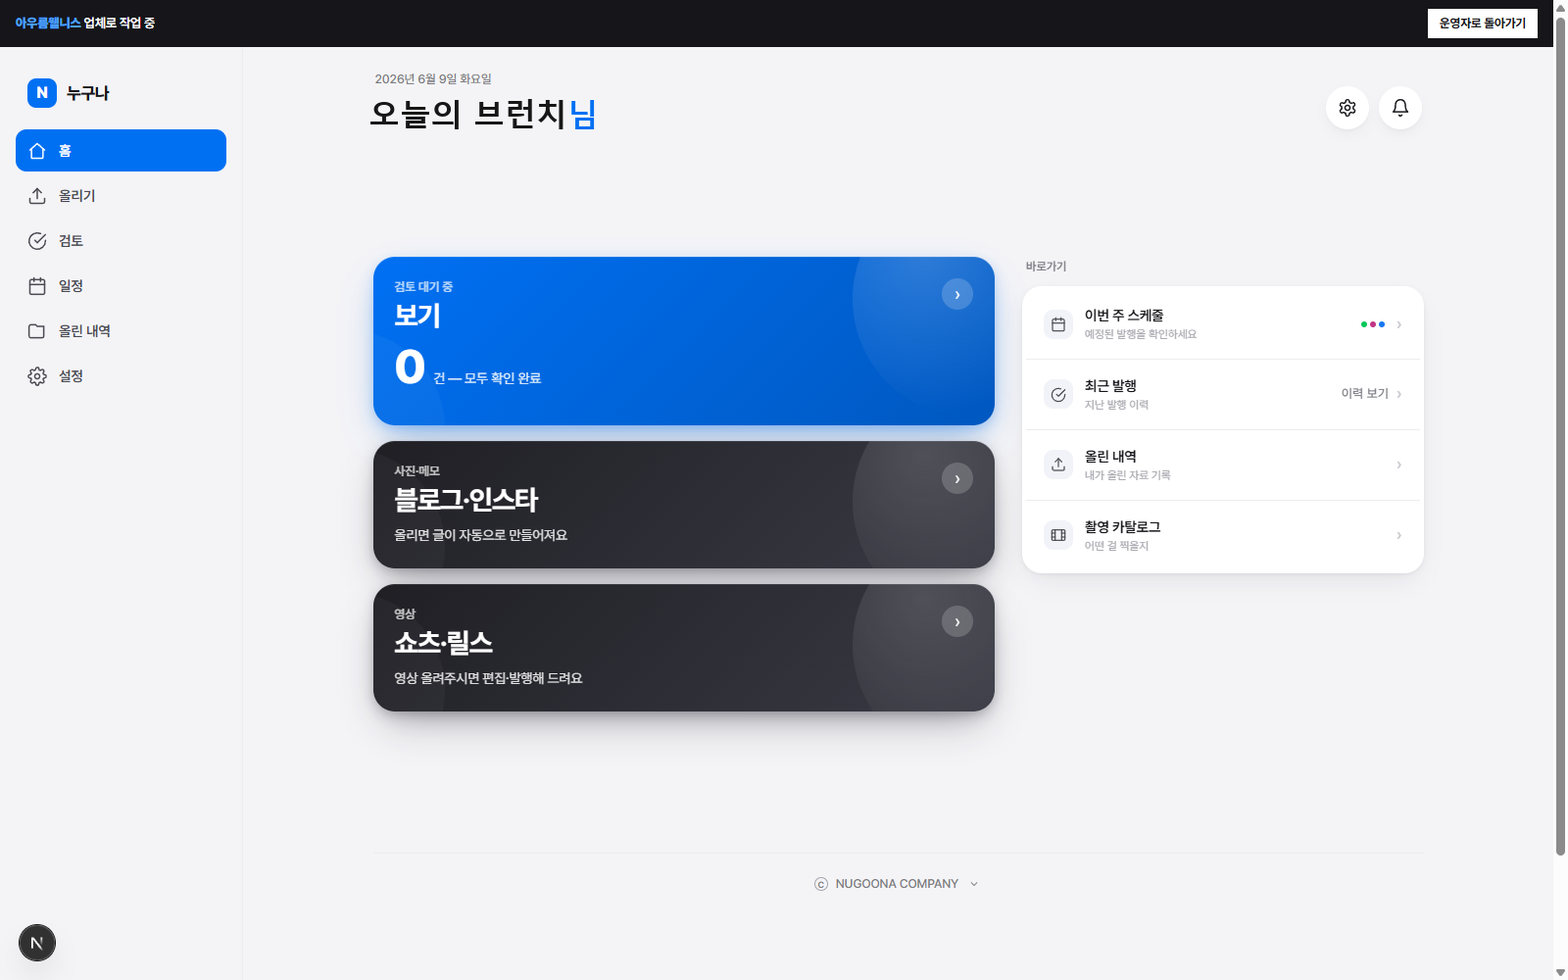
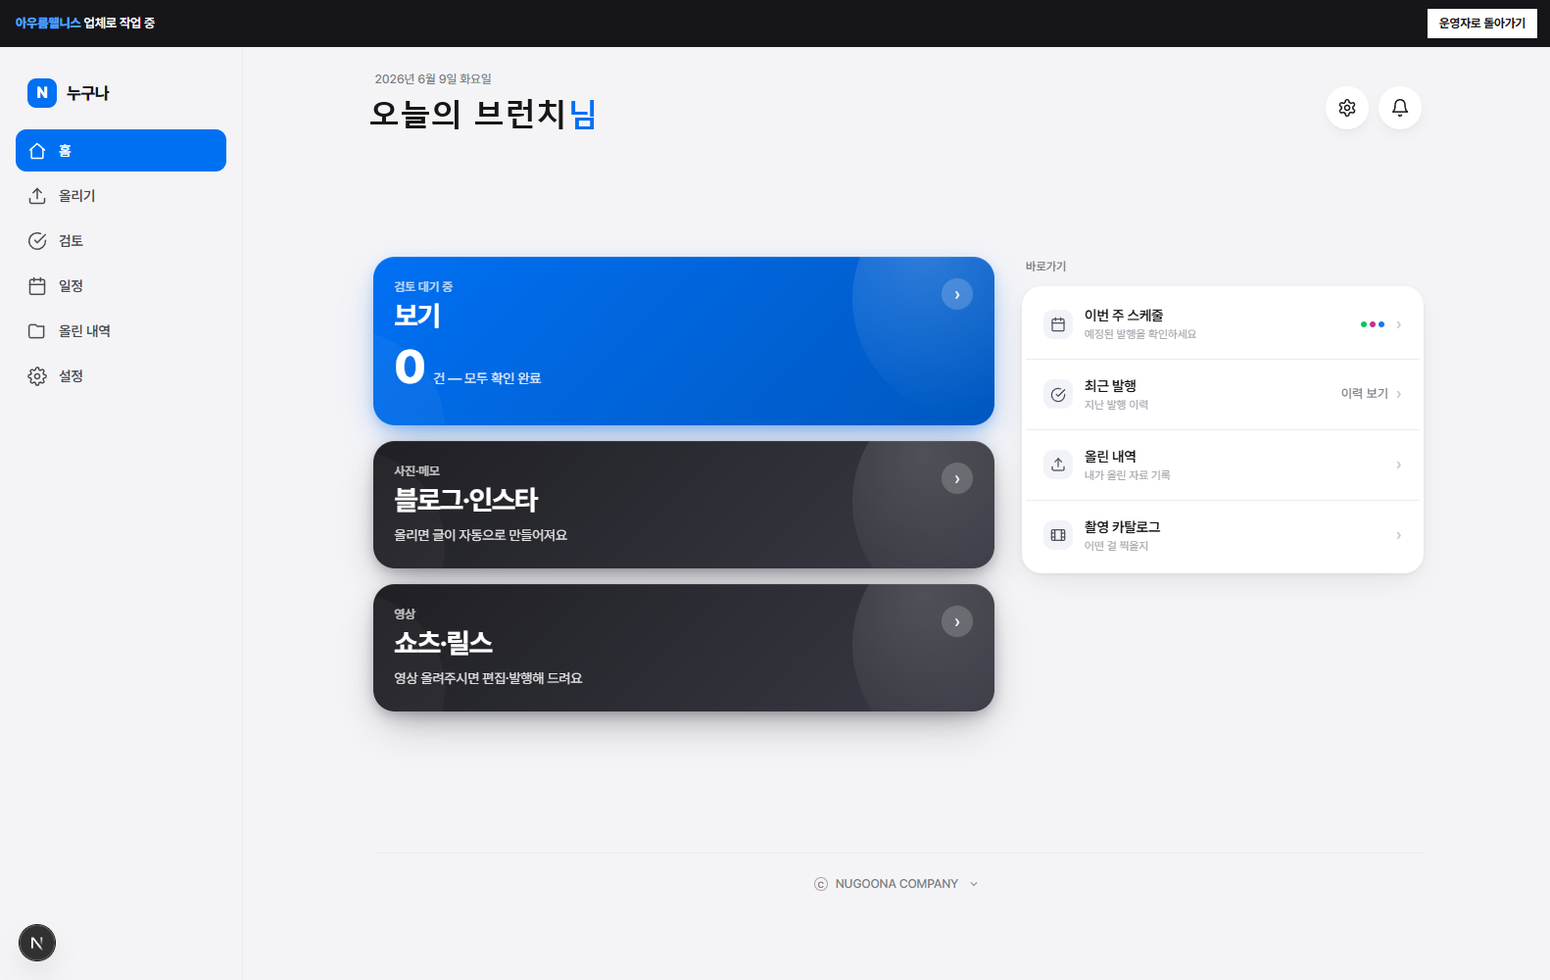
design(homepage): 감독관 2차 잔여 수리 — 사진 전수 실사 확인 기반 재배치(음식→content 격리·상품명 역맞춤·페이지 중복 0)·이모지 소거·제품샷 스크롤바 크롭

diff --git a/nugoona/components/features/TrendShowcase.tsx b/nugoona/components/features/TrendShowcase.tsx
@@ -17,19 +17,19 @@ const U = (id: string) => `/img/unsplash/webp/${id}.webp`;
 
 const IMG = {
   knitPoncho:         U('photo-1434389677669-e08b4cac3105'), // 크림 프린지 크로셰 니트
-  knitRibGrey:         U('photo-1556905055-8f358a7a47b2'),    // 그레이 리브 니트(플랫레이)
+  knitRibGrey:         U('photo-1556905055-8f358a7a47b2'),    // 감독관2차 M1 재확인: 실제는 러스트 니트 비니 + 그레이 리브 니트 + 데님(플랫레이) — 상품명 "니트 비니_Rust"로 역맞춤
   knitSweatshirt:      U('photo-1578587018452-892bacefd3f2'), // 오렌지 크루넥 스웨트
-  knitCableCream:      U('photo-1604176354204-9268737828e4'), // 아이보리 케이블 니트
-  knitSage:            U('photo-1516762689617-e1cffcef479d'), // 세이지 그린 라운드 니트
-  knitCardiganDenim:   U('photo-1515886657613-9f3515b0c78f'), // 아이보리 가디건 + 데님(플랫레이)
+  knitCableCream:      U('photo-1604176354204-9268737828e4'), // 감독관2차 M1 재확인: 실제는 데님 4벌 스택 + 크림 니트 소매(일부) — 니트 단독이 아니므로 상품명은 _Navy로 역맞춤
+  knitSage:            U('photo-1516762689617-e1cffcef479d'), // 감독관2차 M1 재확인: 실제는 크림 가디건 + 데님 + 머그컵(플랫레이), 그린 없음 — 상품명 _Cream으로 역맞춤
+  knitCardiganDenim:   U('photo-1515886657613-9f3515b0c78f'), // 감독관2차 M1: 실제는 옐로 크롭 후드+트랙팬츠 셋업(농구코트) — 상품명 "옐로 트랙 셋업"으로 역맞춤
   coatPlaid:           U('photo-1485968579580-b6d095142e6e'), // 네이비 체크 코트
   coatCamel:           U('photo-1539533018447-63fcce2678e3'), // 카멜 울 랩 코트
   coatPowderBlue:      U('photo-1539109136881-3be0616acf4b'), // 파우더블루 롱 코트
   jacketLeatherBrown:  U('photo-1487222477894-8943e31ef7b2'), // 브라운 레더 라이더 재킷
   jacketBomberRust:    U('photo-1591047139829-d91aecb6caea'), // 러스트 봄버 재킷
   denimRipped:         U('photo-1541099649105-f69ad21f3246'), // 디스트로이드 스키니 데님
-  denimFlatlay:        U('photo-1525351484163-7529414344d8'), // 데님 플랫레이(스트레이트)
-  pantsStripeWide:     U('photo-1529139574466-a303027c1d8b'), // 그린 스트라이프 와이드 팬츠
+  denimFlatlay:        U('photo-1541099649105-f69ad21f3246'), // 감독관2차 C1: 계란토스트 오식별 교체 → 디스트로이드 스키니 데님(denimRipped와 동일 실사, 공용)
+  pantsStripeWide:     U('photo-1509631179647-0177331693ae'), // 감독관2차 M1: 무관 인물사진(CCCP 티셔츠) 오식별 교체 → 블랙 스트라이프 와이드 팬츠(네온사인 배경)
   blouseFloral:        U('photo-1564257631407-4deb1f99d992'), // 화이트 플로럴 아일렛 블라우스
   blouseChambray:      U('photo-1558171813-4c088753af8f'),    // 라이트블루 샴브레이 셔츠
   skirtPleatBlack:      U('photo-1583496661160-fb5886a0aaaa'),// 블랙 플리츠 스커트(+스트라이프 블라우스)
@@ -69,7 +69,7 @@ const RISING_ALL: BriefingItem[] = [
   { rank: '전체 25위', img: IMG.blouseFloral,        brand: '데이브리즈', name: '플로럴 레이스 블라우스_White',          change: 41, thisWeek: 25, lastWeek: 66 },
 ];
 const NEW_ALL: BriefingItem[] = [
-  { rank: '전체 8위',  img: IMG.knitRibGrey,      brand: '코지랩',     name: '리브 크루넥 니트_Grey',           change: 0, thisWeek: 8,  lastWeek: null },
+  { rank: '전체 8위',  img: IMG.knitRibGrey,      brand: '코지랩',     name: '니트 비니 세트_Rust',             change: 0, thisWeek: 8,  lastWeek: null },
   { rank: '전체 15위', img: IMG.denimRipped,      brand: '미뉴에뜨',   name: '디스트로이드 스키니 데님_Blue',    change: 0, thisWeek: 15, lastWeek: null },
   { rank: '전체 23위', img: IMG.dressFloralWhite, brand: '하루클로젯', name: '플로럴 랩 원피스_White',           change: 0, thisWeek: 23, lastWeek: null },
   { rank: '전체 29위', img: IMG.skirtPleatBlack,  brand: '포레스트블룸', name: '플리츠 미디 스커트_Black',       change: 0, thisWeek: 29, lastWeek: null },
@@ -77,20 +77,20 @@ const NEW_ALL: BriefingItem[] = [
 const DROP_ALL: BriefingItem[] = [
   { rank: '전체 88위', img: IMG.coatCamel,       brand: '에르블랑',   name: '오버핏 울 랩 코트_Camel',        change: -25, thisWeek: 88, lastWeek: 63 },
   { rank: '전체 71위', img: IMG.coatPlaid,       brand: '블루밍샵',   name: '체크 울 코트_Navy',              change: -18, thisWeek: 71, lastWeek: 53 },
-  { rank: '전체 45위', img: IMG.knitCableCream,  brand: '르비앙',     name: '케이블 니트 가디건_Ivory',        change: -12, thisWeek: 45, lastWeek: 33 },
-  { rank: '전체 62위', img: IMG.pantsStripeWide, brand: '소울리브',   name: '스트라이프 와이드 팬츠_Green',    change: -9,  thisWeek: 62, lastWeek: 53 },
+  { rank: '전체 45위', img: IMG.knitCableCream,  brand: '르비앙',     name: '케이블 니트 가디건_Navy',         change: -12, thisWeek: 45, lastWeek: 33 },
+  { rank: '전체 62위', img: IMG.pantsStripeWide, brand: '소울리브',   name: '스트라이프 와이드 팬츠_Black',    change: -9,  thisWeek: 62, lastWeek: 53 },
 ];
 const RISING_KNIT: BriefingItem[] = [
   { rank: '니트웨어 36위', img: IMG.knitSweatshirt,    brand: '에르블랑', name: '브이넥 크루 니트_Orange',            change: 53, thisWeek: 36, lastWeek: 89 },
-  { rank: '니트웨어 23위', img: IMG.knitSage,          brand: '라빈느',   name: '라운드 니트_Sage Green',             change: 52, thisWeek: 23, lastWeek: 75 },
-  { rank: '니트웨어 11위', img: IMG.knitCardiganDenim, brand: '소울리브', name: '워셔블 라운드 니트 가디건_Ivory',     change: 37, thisWeek: 11, lastWeek: 48 },
+  { rank: '니트웨어 23위', img: IMG.knitSage,          brand: '라빈느',   name: '라운드 니트_Cream',                  change: 52, thisWeek: 23, lastWeek: 75 },
+  { rank: '니트웨어 11위', img: IMG.knitCardiganDenim, brand: '소울리브', name: '옐로 트랙 셋업',                     change: 37, thisWeek: 11, lastWeek: 48 },
   { rank: '니트웨어 21위', img: IMG.knitPoncho,        brand: '코지랩',   name: '캐시미어 프린지 니트_Ivory',          change: 32, thisWeek: 21, lastWeek: 53 },
 ];
 const NEW_PANTS: BriefingItem[] = [
   { rank: '바지 2위', img: IMG.denimRipped,       brand: '미뉴에뜨',   name: 'Distressed Skinny Denim Pants_Blue', change: 0, thisWeek: 2, lastWeek: null },
   { rank: '바지 3위', img: IMG.denimFlatlay,      brand: '에르블랑',   name: 'Straight Denim Pants_Blue',          change: 0, thisWeek: 3, lastWeek: null },
-  { rank: '바지 4위', img: IMG.pantsStripeWide,   brand: '하루클로젯', name: 'Stripe Wide Pants_Green',            change: 0, thisWeek: 4, lastWeek: null },
-  { rank: '바지 6위', img: IMG.knitCardiganDenim, brand: '라빈느',     name: 'Wide Denim Pants_Light Blue',        change: 0, thisWeek: 6, lastWeek: null },
+  { rank: '바지 4위', img: IMG.pantsStripeWide,   brand: '하루클로젯', name: 'Stripe Wide Pants_Black',            change: 0, thisWeek: 4, lastWeek: null },
+  { rank: '바지 6위', img: IMG.knitCardiganDenim, brand: '라빈느',     name: 'Yellow Track Set',                   change: 0, thisWeek: 6, lastWeek: null },
 ];
 
 const BRIEFING_CATS = ['전체', '니트웨어', '단독', '바지', '상의', '셋업', '스커트', '아우터', '원피스'];
@@ -281,25 +281,25 @@ type InsightProduct = {
 const INSIGHT_PRODUCTS: Record<string, InsightProduct[]> = {
   '급상승': [
     { img: IMG.knitSweatshirt,    brand: '에르블랑',   name: '올데이 브이넥 니트_Orange',       rank: 36, change: 53, price: '69,500' },
-    { img: IMG.knitCardiganDenim, brand: '라빈느',     name: '워셔블 라운드 가디건_Ivory',      rank: 23, change: 52, price: '53,870' },
-    { img: IMG.knitSage,          brand: '소울리브',   name: '워셔블 라운드 니트_Sage Green',   rank: 11, change: 37, price: '46,980' },
+    { img: IMG.knitCardiganDenim, brand: '라빈느',     name: '옐로 트랙 셋업',                  rank: 23, change: 52, price: '53,870' },
+    { img: IMG.knitSage,          brand: '소울리브',   name: '워셔블 라운드 니트_Cream',        rank: 11, change: 37, price: '46,980' },
     { img: IMG.knitPoncho,        brand: '코지랩',     name: '캐시미어 프린지 니트_Ivory',      rank: 21, change: 32, price: '49,920' },
-    { img: IMG.knitRibGrey,       brand: '미뉴에뜨',   name: '리브 포인티드 니트_Grey',         rank: 38, change: 31, price: '66,000' },
-    { img: IMG.knitCableCream,    brand: '데이브리즈', name: '케이블 가디건_Ivory',             rank: 72, change: 27, price: '33,000' },
+    { img: IMG.knitRibGrey,       brand: '미뉴에뜨',   name: '니트 비니_Rust',                  rank: 38, change: 31, price: '66,000' },
+    { img: IMG.knitCableCream,    brand: '데이브리즈', name: '케이블 가디건_Navy',              rank: 72, change: 27, price: '33,000' },
   ],
   '신규 진입': [
     { img: IMG.denimRipped,      brand: '에르블랑',   name: '디스트로이드 스키니 데님_Deep Blue', rank: 3,  change: 0, price: '55,000' },
     { img: IMG.dressFloralWhite, brand: '하루클로젯', name: '플로럴 랩 미니 원피스_White',        rank: 8,  change: 0, price: '42,000' },
-    { img: IMG.pantsStripeWide,  brand: '미뉴에뜨',   name: '스트라이프 와이드 팬츠_Green',       rank: 6,  change: 0, price: '58,900' },
+    { img: IMG.pantsStripeWide,  brand: '미뉴에뜨',   name: '스트라이프 와이드 팬츠_Black',       rank: 6,  change: 0, price: '58,900' },
     { img: IMG.skirtPleatBlack,  brand: '소울리브',   name: '플리츠 미디 스커트_Black',           rank: 12, change: 0, price: '49,500' },
-    { img: IMG.knitRibGrey,      brand: '라빈느',     name: '리브 크루넥 니트_Grey',              rank: 19, change: 0, price: '62,000' },
+    { img: IMG.knitRibGrey,      brand: '라빈느',     name: '니트 비니_Rust',                     rank: 19, change: 0, price: '62,000' },
     { img: IMG.blouseChambray,   brand: '코지랩',     name: '샴브레이 셔츠 블라우스_Blue',        rank: 15, change: 0, price: '38,500' },
   ],
   '순위 하락': [
     { img: IMG.coatCamel,       brand: '에르블랑',   name: '오버핏 울 랩 코트_Camel',        rank: 88, change: -25, price: '119,000' },
     { img: IMG.coatPlaid,       brand: '블루밍샵',   name: '체크 울 코트_Navy',              rank: 71, change: -18, price: '195,000' },
-    { img: IMG.knitCableCream,  brand: '르비앙',     name: '터틀넥 케이블 니트_Ivory',        rank: 45, change: -12, price: '67,000' },
-    { img: IMG.pantsStripeWide, brand: '소울리브',   name: '스트라이프 와이드 팬츠_Green',    rank: 62, change: -9,  price: '49,500' },
+    { img: IMG.knitCableCream,  brand: '르비앙',     name: '터틀넥 케이블 니트_Navy',         rank: 45, change: -12, price: '67,000' },
+    { img: IMG.pantsStripeWide, brand: '소울리브',   name: '스트라이프 와이드 팬츠_Black',    rank: 62, change: -9,  price: '49,500' },
     { img: IMG.coatPowderBlue,  brand: '하루클로젯', name: 'Classic Wool Coat_Powder Blue',  rank: 55, change: -7,  price: '188,000' },
     { img: IMG.skirtPleatBlack, brand: '미뉴에뜨',   name: '플리츠 미디 스커트_Black',        rank: 78, change: -5,  price: '72,000' },
   ],
@@ -508,7 +508,7 @@ function InsightSection() {
                               </span>
                             </div>
                             <p className="text-[10px] text-text-weak font-semibold mb-0.5">{p.brand}</p>
-                            <p className="text-[11px] text-text-primary font-medium leading-[1.4] mb-1.5 line-clamp-2">{p.name}</p>
+                            <p className="text-[11px] text-text-primary font-medium leading-[1.4] mb-1.5 line-clamp-1">{p.name}</p>
                             <span
                               className="inline-flex items-center gap-0.5 text-[9px] font-bold px-1.5 py-0.5 mb-1.5"
                               style={{
@@ -557,23 +557,23 @@ const COMPARE_PRODUCTS: Record<string, CompareProduct[]> = {
     { img: PT_IMGS[4], brand: '에르블랑', name: '오버사이즈 크루넥 후디_Orange',   likes: '1,283', bestRank: 4 },
     { img: PT_IMGS[6], brand: '에르블랑', name: '스트레이트 데님 팬츠_Blue',        likes: '392',   bestRank: 3 },
     { img: PT_IMGS[8], brand: '에르블랑', name: '울 블렌드 코트_Camel',              likes: '519',   bestRank: undefined },
-    { img: PT_IMGS[1], brand: '에르블랑', name: '와이드 데님 팬츠_워싱 Blue',        likes: '2,341', bestRank: 7 },
-    { img: PT_IMGS[3], brand: '에르블랑', name: '크루넥 니트 풀오버_4color',         likes: '1,087', bestRank: undefined },
-    { img: PT_IMGS[5], brand: '에르블랑', name: '린넨 셔츠 블라우스_Ivory',          likes: '643',   bestRank: undefined },
-    { img: PT_IMGS[7], brand: '에르블랑', name: '플리츠 미디 스커트_3color',         likes: '891',   bestRank: 9 },
-    { img: PT_IMGS[9], brand: '에르블랑', name: '캐시미어 브이넥 니트_5color',       likes: '1,524', bestRank: undefined },
+    { img: PT_IMGS[1], brand: '에르블랑', name: '레더 블루종 재킷_Brown',        likes: '2,341', bestRank: 7 },
+    { img: PT_IMGS[3], brand: '에르블랑', name: '케이블 니트 가디건_Navy',        likes: '1,087', bestRank: undefined },
+    { img: PT_IMGS[5], brand: '에르블랑', name: '디스트로이드 스키니 데님_Blue',  likes: '643',   bestRank: undefined },
+    { img: PT_IMGS[7], brand: '에르블랑', name: '플로럴 레이스 블라우스_White',   likes: '891',   bestRank: 9 },
+    { img: PT_IMGS[9], brand: '에르블랑', name: '옐로 트랙 셋업',                likes: '1,524', bestRank: undefined },
   ],
   '라빈느': [
     { img: PT_IMGS[1], brand: '라빈느', name: '레더 블루종 재킷_Brown',        likes: '3,201', bestRank: 12 },
-    { img: PT_IMGS[3], brand: '라빈느', name: '케이블 니트 가디건_Ivory',       likes: '2,891', bestRank: 23 },
+    { img: PT_IMGS[3], brand: '라빈느', name: '케이블 니트 가디건_Navy',        likes: '2,891', bestRank: 23 },
     { img: PT_IMGS[5], brand: '라빈느', name: 'Distressed Skinny Denim Pants_Blue', likes: '1,047', bestRank: undefined },
     { img: PT_IMGS[7], brand: '라빈느', name: '플로럴 레이스 블라우스_White',   likes: '892',   bestRank: undefined },
-    { img: PT_IMGS[9], brand: '라빈느', name: '와이드 데님 팬츠_Light Blue',    likes: '2,134', bestRank: 31 },
-    { img: PT_IMGS[0], brand: '라빈느', name: '코튼 크루넥 티셔츠_5color',     likes: '1,673', bestRank: undefined },
-    { img: PT_IMGS[2], brand: '라빈느', name: '린넨 와이드 팬츠_Beige',        likes: '743',   bestRank: undefined },
-    { img: PT_IMGS[4], brand: '라빈느', name: '트위드 자켓_Cream',             likes: '1,298', bestRank: 45 },
-    { img: PT_IMGS[6], brand: '라빈느', name: '플레어 미니 스커트_2color',     likes: '581',   bestRank: undefined },
-    { img: PT_IMGS[8], brand: '라빈느', name: '오버사이즈 맨투맨_Grey',        likes: '2,056', bestRank: 38 },
+    { img: PT_IMGS[9], brand: '라빈느', name: '옐로 트랙 셋업',                 likes: '2,134', bestRank: 31 },
+    { img: PT_IMGS[0], brand: '라빈느', name: '롱 트렌치 코트_Powder Blue',    likes: '1,673', bestRank: undefined },
+    { img: PT_IMGS[2], brand: '라빈느', name: '플리츠 미디 스커트_Black',      likes: '743',   bestRank: undefined },
+    { img: PT_IMGS[4], brand: '라빈느', name: '오버사이즈 크루넥 후디_Orange', likes: '1,298', bestRank: 45 },
+    { img: PT_IMGS[6], brand: '라빈느', name: '스트레이트 데님 팬츠_Blue',     likes: '581',   bestRank: undefined },
+    { img: PT_IMGS[8], brand: '라빈느', name: '울 블렌드 코트_Camel',          likes: '2,056', bestRank: 38 },
   ],
   '소울리브': [
     { img: PT_IMGS[2], brand: '소울리브', name: '플리츠 미디 스커트_Black',       likes: '1,842', bestRank: 38 },
@@ -581,11 +581,11 @@ const COMPARE_PRODUCTS: Record<string, CompareProduct[]> = {
     { img: PT_IMGS[6], brand: '소울리브', name: '워싱 스트레이트 데님_Blue',      likes: '2,201', bestRank: 18 },
     { img: PT_IMGS[8], brand: '소울리브', name: '울 랩 코트_Camel',               likes: '673',   bestRank: undefined },
     { img: PT_IMGS[0], brand: '소울리브', name: '미니멀 롱 코트_Powder Blue',     likes: '1,456', bestRank: 52 },
-    { img: PT_IMGS[1], brand: '소울리브', name: '크롭 후드 집업_3color',          likes: '1,087', bestRank: undefined },
-    { img: PT_IMGS[3], brand: '소울리브', name: '플리츠 와이드 팬츠_Black',       likes: '834',   bestRank: undefined },
-    { img: PT_IMGS[5], brand: '소울리브', name: '홀터넥 미니 원피스_2color',      likes: '2,318', bestRank: 29 },
-    { img: PT_IMGS[7], brand: '소울리브', name: '모헤어 브이넥 니트_3color',      likes: '1,691', bestRank: 41 },
-    { img: PT_IMGS[9], brand: '소울리브', name: '타이업 블라우스_Cream',          likes: '547',   bestRank: undefined },
+    { img: PT_IMGS[1], brand: '소울리브', name: '레더 블루종 재킷_Brown',         likes: '1,087', bestRank: undefined },
+    { img: PT_IMGS[3], brand: '소울리브', name: '케이블 니트 가디건_Navy',        likes: '834',   bestRank: undefined },
+    { img: PT_IMGS[5], brand: '소울리브', name: '디스트로이드 스키니 데님_Blue',  likes: '2,318', bestRank: 29 },
+    { img: PT_IMGS[7], brand: '소울리브', name: '플로럴 레이스 블라우스_White',   likes: '1,691', bestRank: 41 },
+    { img: PT_IMGS[9], brand: '소울리브', name: '옐로 트랙 셋업',                 likes: '547',   bestRank: undefined },
   ],
 };
 // Fill remaining brands with shuffled data
@@ -593,8 +593,9 @@ const COMPARE_PRODUCTS: Record<string, CompareProduct[]> = {
   COMPARE_PRODUCTS[brand] = PT_IMGS.map((img, i) => ({
     img,
     brand,
-    name: ['롱 트렌치 코트_Powder Blue', '레더 블루종 재킷_Brown', '플리츠 미디 스커트_Black', '케이블 니트 가디건_Ivory', '오버사이즈 크루넥 후디_Orange',
-           '울 오버코트_Camel', '크롭 스웻_Grey', '플리츠 스커트_Black', '홀터넥 탑_2color', '모헤어 카디건_Beige'][i],
+    // 감독관2차 M1 전수점검: PT_IMGS 실사 재확인 후 품목·색상 역맞춤(idx5~9는 slice(0,5)로 미노출이나 데이터 정합성 위해 함께 수정)
+    name: ['롱 트렌치 코트_Powder Blue', '레더 블루종 재킷_Brown', '플리츠 미디 스커트_Black', '케이블 니트 가디건_Navy', '오버사이즈 크루넥 후디_Orange',
+           '디스트로이드 스키니 데님_Blue', '스트레이트 데님 팬츠_Blue', '플로럴 레이스 블라우스_White', '울 블렌드 코트_Camel', '옐로 트랙 셋업'][i],
     likes: ['1,234', '892', '2,341', '547', '1,876', '3,012', '678', '1,543', '934', '2,187'][i],
     bestRank: [18, undefined, 35, undefined, 62, 7, undefined, 44, undefined, 28][i] as number | undefined,
   }));

diff --git a/nugoona/components/features/AdCanvasShowcase.tsx b/nugoona/components/features/AdCanvasShowcase.tsx
@@ -167,8 +167,9 @@ function Step01_UrlInput({ isActive }: { isActive: boolean }) {
           transition={{ duration: 0.5, ease: EASE, delay: 0.15 }}
           style={{ width: '50%', display: 'flex', flexDirection: 'column' }}
         >
-          <div style={{ flex: 1, background: 'rgba(0,112,243,0.06)', border: '1px solid #eaeaea', position: 'relative', display: 'flex', alignItems: 'center', justifyContent: 'center', overflow: 'hidden' }}>
-            <span style={{ fontSize: 32, fontWeight: 700, color: 'rgba(0,112,243,0.15)', ...EN }}>4:5</span>
+          <div style={{ flex: 1, border: '1px solid #eaeaea', position: 'relative', display: 'flex', alignItems: 'center', justifyContent: 'center', overflow: 'hidden' }}>
+            {/* L1(§감독관2차): 연블루 플레이스홀더 → 실사 크롭(4:5, object-cover). "린넨 원피스" 카피와 매칭되는 화이트 플로럴 랩 원피스 */}
+            <img src={U('photo-1496747611176-843222e1e57c')} alt="" style={{ position: 'absolute', inset: 0, width: '100%', height: '100%', objectFit: 'cover' }} />
             <motion.div
               animate={status === 'done' ? { y: 0, opacity: 1 } : { y: 30, opacity: 0 }}
               transition={{ duration: 0.5, ease: EASE, delay: 0.5 }}
@@ -235,8 +236,8 @@ function Step02_Catalog({ isActive }: { isActive: boolean }) {
   const products = [
     { name: '플로럴 원피스', price: '₩39,000', badge: 'NEW', color: '#0070f3', img: U('photo-1496747611176-843222e1e57c') },
     { name: '린넨 셔츠', price: '₩52,000', badge: 'TOP', color: '#22c55e', img: U('photo-1558171813-4c088753af8f') },
-    { name: '코튼 팬츠', price: '₩28,000', badge: null, color: '', img: U('photo-1525351484163-7529414344d8') },
-    { name: '스트라이프 니트', price: '₩45,000', badge: 'AUTO', color: '#666', img: U('photo-1583496661160-fb5886a0aaaa') },
+    { name: '스트레이트 데님 팬츠', price: '₩28,000', badge: null, color: '', img: U('photo-1525507119028-ed4c629a60a3') },
+    { name: '그린 크루넥 니트', price: '₩45,000', badge: 'AUTO', color: '#666', img: U('photo-1523381210434-271e8be1f52b') },
   ];
 
   return (

diff --git a/nugoona/components/features/DashboardShowcase.tsx b/nugoona/components/features/DashboardShowcase.tsx
@@ -725,8 +725,9 @@ export function PhoneMockup() {
                     </div>
                     <div style={{ display: 'grid', gridTemplateColumns: '1fr 1fr', gap: 6, marginBottom: 8 }}>
                       {[
-                        { tag: 'META', color: '#1877f2', img: '/img/unsplash/webp/photo-1515886657613-9f3515b0c78f.webp', campaign: 'Spring Sale', roas: '618%' },
-                        { tag: 'GOOGLE', color: '#34a853', img: '/img/unsplash/webp/photo-1539109136881-3be0616acf4b.webp', campaign: 'Brand KW', roas: '412%' },
+                        // 감독관2차 M4 ②④: TrendShowcase 기본노출 이미지(coatPowderBlue·옐로트랙셋업)와 중복 → 미사용 실사로 교체
+                        { tag: 'META', color: '#1877f2', img: '/img/unsplash/webp/photo-1551028719-00167b16eac5.webp', campaign: 'Spring Sale', roas: '618%' },
+                        { tag: 'GOOGLE', color: '#34a853', img: '/img/unsplash/webp/photo-1603344797033-f0f4f587ab60.webp', campaign: 'Brand KW', roas: '412%' },
                       ].map((r) => (
                         <div key={r.tag} style={{ border: '1px solid #eaeaea', overflow: 'hidden' }}>
                           <div style={{ height: 64, backgroundImage: `url(${r.img})`, backgroundSize: 'cover', backgroundPosition: 'center top', position: 'relative', display: 'flex', alignItems: 'flex-start', justifyContent: 'flex-end', padding: 4 }}>

diff --git a/nugoona/components/styles/S13_Onboarding.tsx b/nugoona/components/styles/S13_Onboarding.tsx
@@ -28,7 +28,7 @@ const BORDER = '#eaeaea';
 const GROUPS = [
   { label: '가게 프로필', body: <>오늘의 브런치, 성수 · 브런치 카페 <span className="text-text-weak">— 소개·메뉴·말투·썸네일까지</span></> },
   { label: '노출 검색어', body: <><b>성수동 브런치</b> 외 목표 3개 · 태그 15개</> },
-  { label: '1년치 글감', body: <>🔥 아침 오픈 준비 외 <b>52편</b> 미리 준비</> },
+  { label: '1년치 글감', body: <>아침 오픈 준비 외 <b>52편</b> 미리 준비</> },
 ] as const;
 
 const ROW_START = 0.75;
